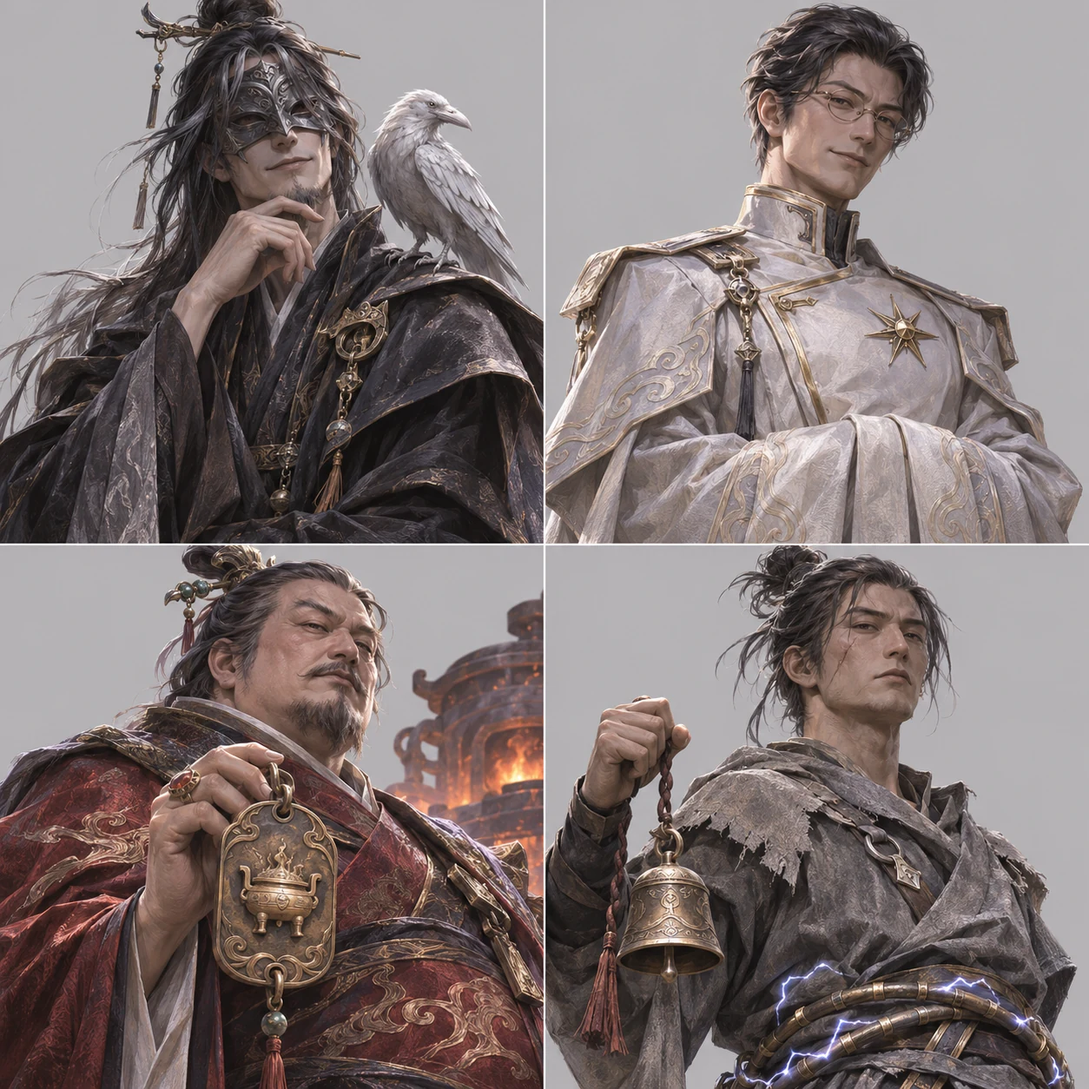
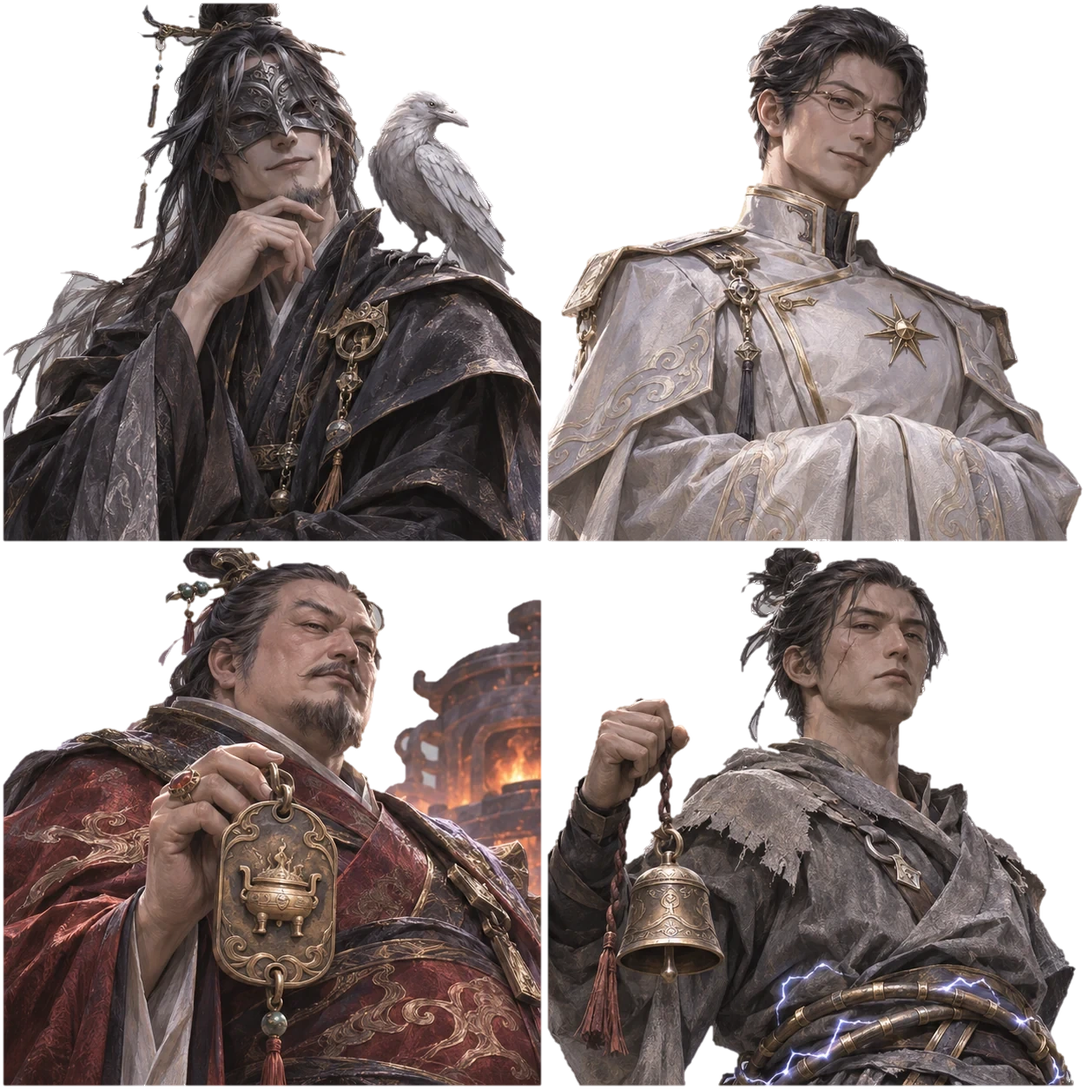
补充十一位配角的临时头像，更新四张立绘图集
- 新增 por_chy 等 12 张临时头像（从人物总览图裁出，待正式立绘覆盖）
- FOURTH_PORTRAITS 登记 11 位角色；谢照临改用 por_xie
- 新增人物图像检查报告与缺图角色出图提示词文档

diff --git a/index.html b/index.html
@@ -7296,7 +7296,7 @@ function thirdPortrait(key){return `<img class="porimg" src="art/por_${key}.webp
 Object.entries(THIRD_PORTRAITS).forEach(([key,file])=>{PORTRAIT[key]=()=>thirdPortrait(file);});
 const _thirdMo=PORTRAIT.mo,_thirdXie=PORTRAIT.xie;
 PORTRAIT.mo=()=>S.seen.includes('v11_10')?thirdPortrait('mo_lamp'):_thirdMo();
-PORTRAIT.xie=()=>S.seen.includes('v11_10')?thirdPortrait('xie_lamp'):(_thirdXie?_thirdXie():sealPortrait('xie'));
+PORTRAIT.xie=()=>S.seen.includes('v11_10')?thirdPortrait('xie_lamp'):(_thirdXie?_thirdXie():thirdPortrait('xie'));
 const THIRD_ENEMIES={'晏枢':'yans','乌衡':'wuh2','冻息叶':'dongxi','主槽守卫':'zhucao','持杖的守卫':'zhucao'};
 const _thirdBtPortrait=btPortrait;btPortrait=function(a){
  const key=a.side==='e'&&THIRD_ENEMIES[a.n||a.name];if(!key)return _thirdBtPortrait.apply(this,arguments);
@@ -7309,7 +7309,9 @@ Object.assign(CG,{jiedan:'此身',chudeng:'灯下人',xuanhe:'潮从何来',lala
 const FOURTH_SCENE_KEYS=new Set('chiliang zhexing huiting qingshi_po yanhu tianxi taiyi lufu tieliang fudeng gongfang yancang'.split(' '));
 const _fourthSceneCanvas=sceneCanvas;sceneCanvas=function(key,w,h){if(FOURTH_SCENE_KEYS.has(key))requestThirdArt('scene_'+key,'jpg');return _fourthSceneCanvas(key,w,h);};
 const _fourthBtBg=btBg;btBg=function(key,w,h){if(FOURTH_SCENE_KEYS.has(key))requestThirdArt('scene_'+key,'jpg');return _fourthBtBg(key,w,h);};
-const FOURTH_PORTRAITS={heq:'heq',hey:'heq',hengd:'hengd',mengq:'mengq',lhd:'lhd',wenq:'wenq',sangf:'sangf',aying:'aying',xman:'xman',chengw:'chengw',yutan:'yut',liangl:'liangl',qiw:'qiw',luoy:'luoy',duh:'duh'};
+const FOURTH_PORTRAITS={heq:'heq',hey:'heq',hengd:'hengd',mengq:'mengq',lhd:'lhd',wenq:'wenq',sangf:'sangf',aying:'aying',xman:'xman',chengw:'chengw',yutan:'yut',liangl:'liangl',qiw:'qiw',luoy:'luoy',duh:'duh',
+ /* 临时头像：从人物总览图裁出（chy…zhouyi），分辨率低、背景带景物；谢照临的 por_xie 同属此类。出了正式立绘后直接覆盖同名文件即可 */
+ chy:'chy',yeh:'yeh',shaop:'shaop',jiangq:'jiangq',kid:'kid',menl:'menl',tianq:'tianq',jiy:'jiy',luc:'luc',luod:'luod',zhouyi:'zhouyi'};
 Object.entries(FOURTH_PORTRAITS).forEach(([key,file])=>{PORTRAIT[key]=()=>thirdPortrait(file);});
 const FOURTH_ENEMIES=({'负碑鼋':'fubei','衡渡':'hengd','镜中错影':'hengd','孟确':'mengq','寄焰藤':'jiyan','寄焰藤根':'jiyan','护炉架':'hulu','晶翼':'jingyi','盲鳗':'mangman',
  '盐壳螯群':'yanqiao','岩鬃獾':'yanzong','晶背蛾':'jingbeie','晶背蛾群':'jingbeie','晶背兽':'jingbeis','蒙面人':'mengmian','翻船帮的蒙面人':'mengmian','持弩的蒙面人':'mengmian','雾鲨':'wusha1','寒壳蟹':'hanke'});

diff --git a/src/chart.js b/src/chart.js
@@ -66,7 +66,7 @@ function thirdPortrait(key){return `<img class="porimg" src="art/por_${key}.webp
 Object.entries(THIRD_PORTRAITS).forEach(([key,file])=>{PORTRAIT[key]=()=>thirdPortrait(file);});
 const _thirdMo=PORTRAIT.mo,_thirdXie=PORTRAIT.xie;
 PORTRAIT.mo=()=>S.seen.includes('v11_10')?thirdPortrait('mo_lamp'):_thirdMo();
-PORTRAIT.xie=()=>S.seen.includes('v11_10')?thirdPortrait('xie_lamp'):(_thirdXie?_thirdXie():sealPortrait('xie'));
+PORTRAIT.xie=()=>S.seen.includes('v11_10')?thirdPortrait('xie_lamp'):(_thirdXie?_thirdXie():thirdPortrait('xie'));
 const THIRD_ENEMIES={'晏枢':'yans','乌衡':'wuh2','冻息叶':'dongxi','主槽守卫':'zhucao','持杖的守卫':'zhucao'};
 const _thirdBtPortrait=btPortrait;btPortrait=function(a){
  const key=a.side==='e'&&THIRD_ENEMIES[a.n||a.name];if(!key)return _thirdBtPortrait.apply(this,arguments);
@@ -79,7 +79,9 @@ Object.assign(CG,{jiedan:'此身',chudeng:'灯下人',xuanhe:'潮从何来',lala
 const FOURTH_SCENE_KEYS=new Set('chiliang zhexing huiting qingshi_po yanhu tianxi taiyi lufu tieliang fudeng gongfang yancang'.split(' '));
 const _fourthSceneCanvas=sceneCanvas;sceneCanvas=function(key,w,h){if(FOURTH_SCENE_KEYS.has(key))requestThirdArt('scene_'+key,'jpg');return _fourthSceneCanvas(key,w,h);};
 const _fourthBtBg=btBg;btBg=function(key,w,h){if(FOURTH_SCENE_KEYS.has(key))requestThirdArt('scene_'+key,'jpg');return _fourthBtBg(key,w,h);};
-const FOURTH_PORTRAITS={heq:'heq',hey:'heq',hengd:'hengd',mengq:'mengq',lhd:'lhd',wenq:'wenq',sangf:'sangf',aying:'aying',xman:'xman',chengw:'chengw',yutan:'yut',liangl:'liangl',qiw:'qiw',luoy:'luoy',duh:'duh'};
+const FOURTH_PORTRAITS={heq:'heq',hey:'heq',hengd:'hengd',mengq:'mengq',lhd:'lhd',wenq:'wenq',sangf:'sangf',aying:'aying',xman:'xman',chengw:'chengw',yutan:'yut',liangl:'liangl',qiw:'qiw',luoy:'luoy',duh:'duh',
+ /* 临时头像：从人物总览图裁出（chy…zhouyi），分辨率低、背景带景物；谢照临的 por_xie 同属此类。出了正式立绘后直接覆盖同名文件即可 */
+ chy:'chy',yeh:'yeh',shaop:'shaop',jiangq:'jiangq',kid:'kid',menl:'menl',tianq:'tianq',jiy:'jiy',luc:'luc',luod:'luod',zhouyi:'zhouyi'};
 Object.entries(FOURTH_PORTRAITS).forEach(([key,file])=>{PORTRAIT[key]=()=>thirdPortrait(file);});
 const FOURTH_ENEMIES=({'负碑鼋':'fubei','衡渡':'hengd','镜中错影':'hengd','孟确':'mengq','寄焰藤':'jiyan','寄焰藤根':'jiyan','护炉架':'hulu','晶翼':'jingyi','盲鳗':'mangman',
  '盐壳螯群':'yanqiao','岩鬃獾':'yanzong','晶背蛾':'jingbeie','晶背蛾群':'jingbeie','晶背兽':'jingbeis','蒙面人':'mengmian','翻船帮的蒙面人':'mengmian','持弩的蒙面人':'mengmian','雾鲨':'wusha1','寒壳蟹':'hanke'});

diff --git a/缺图角色清单与出图提示词.md b/缺图角色清单与出图提示词.md
@@ -1,0 +1,78 @@
+# 灵潮修仙录 · 缺图角色清单与出图提示词
+
+这份清单列的是游戏里**没有立绘、现在显示印章头像**的角色（来自 `人物图像检查报告.md`）。
+按这里的提示词用你的绘图工具出图，发给我，写上文件名，我来抠图、压缩、接进游戏。
+
+> 我这边不能直接画图。提示词是我根据剧情里的身份、年龄、动作和场景推的，**源码里很少直接写长相**，所以每个角色都标了“依据”和“需要你确认的地方”。你觉得不对的地方，直接改提示词就行。
+
+## 通用要求
+
+- **立绘**：竖版 4:5（例如 1024×1280），半身到大腿，人物居中，三分之二侧身。
+- **背景**：纯色。和第五、六批人物（`atlas_5_*`、`atlas_6_*`）一样用**浅灰色纯色背景**就可以，我有现成的抠图脚本能去底；你自己抠成透明 PNG 更好。
+- **画风对齐**：新图要和已有的第五、六批人物放在一起不违和。那批是写实厚涂、低饱和、旧衣服带补丁、末日加仙侠的质感。出图前可以把 `art/atlas_6_characters_grid.webp` 当参考图喂给绘图工具。
+- 每条提示词后面加上这一句：
+
+> 通用风格：国风仙侠游戏人物立绘，写实厚涂，电影级光影，细腻笔触，低饱和，旧衣服带补丁与磨损，半身，三分之二侧身，五官自然，浅灰色纯色背景，无文字，无水印，无边框
+
+- 文件名：`por_代号.png`，例如 `por_xie.png`。
+
+## 一、主要人物（12 位，优先画）
+
+| 优先 | 文件名 | 人物 | 出场 | 依据 | 提示词 |
+|---|---|---|---|---|---|
+| ★★★ | por_xie | 谢照临 | 第六、十一、十二卷（台词 25 句，人物志里有） | 墨老的师兄，三百年前太一观弟子。第六卷回忆里他“年轻，衣领撕开一边，肩上驮着一个人，右腿拖在地上”。现有的 `por_xie_lamp.webp` 是一盏魂灯，没有人脸。 | 三百年前道门丹房的青年修士，三十岁上下，清瘦，轮廓冷峻，眼神克制而疲惫，像很久没睡过。灰青色旧道袍，衣领撕开一边，沾着炉灰与暗红的血迹，肩头有勒痕，腰间系一条细绳，挂着一个小小的空灯座。微微低头，一只手按在肩上 |
+| ★★★ | por_chy | 程砚 | 第七卷（18 句） | 北线调防来的人，说话干脆，带图、带车。“用手帕抹手指上的炭”，爱整洁。**性别、官职源码没写明，我暂定为男性军士，请确认。** | 三十来岁的北线调防军官，短发，脸庞干净利落，肩背挺直。深灰色旧军服，袖口磨损且补过，手里捏着一块洗得发白的手帕，指甲缝里还留着炭黑，腰间别着一卷地图，神情冷静而有条理 |
+| ★★★ | por_yeh | 叶蘅 | 第七卷（18 句） | 赤梁安置点里管孩子的人，坐矮台发烧坏的彩釉陶片，教孩子“磨手”，补小鞋，说话严肃带一点幽默。**性别源码没写明，我暂定为女性，请确认。** | 三四十岁，面相温和而严肃，头发简单扎起，围着旧布围裙，袖子挽到肘，手里捏着一片烧坏的彩釉陶片，膝上放着一只补到一半的小布鞋，坐在矮凳上，眼神耐心，不容糊弄 |
+| ★★★ | por_shaop | 邵平 | 第七卷（14 句） | 青石站来换防的护卫，**右眉上一道浅疤**，爱把别人说的话原样顶回去。 | 二十七八岁的青年护卫，右眉上一道浅疤，表情木然带一点倔，袖子捋到小臂，手背有旧伤，穿青石站的旧防护服，肩上搭着一块洗过的棉布，嘴角压着，像随时要把你的话原样顶回来 |
+| ★★ | por_jiangq | 江芹 | 第五卷（8 句） | 种冬菜的菜农，“挑了最嫩的一束，照价收钱”，田埂上的人，是女性。 | 四十岁左右的菜农妇人，皮肤被风吹得粗糙，手指粗大，裹着褪色头巾，旧棉袄外罩一件沾泥的围裙，臂弯挎着一篮冬菜，神情朴实而精明，脚边是湿泥 |
+| ★★ | por_kid | 站里的孩子 | 第五卷、叙话（7 句） | 青石站的孩子们学削棋子，铁叔和一个八九岁的小姑娘下棋。 | 八九岁的孩子，脸颊有灰，眼睛很亮，头发乱糟糟扎成两个小揪，穿改小了的旧大人衣服，手里捏着一枚刚削好的木棋子，专注地看着前方 |
+| ★★ | por_menl | 收门钱的老修士 | 第二卷（6 句） | 南街坊市门口，“灰袍老修士把来人的手按在白石上，看光的颜色收钱”，公事公办。 | 六十多岁的灰袍老修士，面容枯瘦，眼皮耷拉，神情疲惫而不近人情。灰色旧道袍洗得发白，袖口露出一截皮套，面前是一块发着微光的白石和一本旧册子，手里捏着笔 |
+| ★★ | por_tianq | 田庆 | 第七卷（6 句） | 赤梁窑工，带着眼睛不好的老伴，护着一捆模具，守着窑棚。**性别源码没写，按“老伴”暂定为男性，请确认。** | 五十多岁的窑工，肩背厚实，手掌粗硬，脸上有烧窑留下的细小烫痕，穿沾着釉彩的旧工装，身边放着一只大木箱，一只手护着怀里的陶模，神情倔强又舍不得 |
+| ★★ | por_jiy | 季遥 | 第七卷（5 句） | “领路的少年季遥背着一卷比自己还长的绳”，在白榆台学识图，舅父骂他字写得怪。 | 十五六岁的少年，瘦，皮肤晒得发黑，眼睛机灵，鼻尖有点红，穿大一号的旧工装，背着一卷比自己还长的粗麻绳，走路小心翼翼，像怕地面忽然变薄 |
+| ★★ | por_luc | 陆岑 | 第五卷（5 句） | “以前替天穹会押粮，如今管北坡几个水点”，带管匠核水量，把记录摊出来给人看，是男性。 | 四十出头的男子，国字脸，眼下有常年的疲惫，穿褪色的旧押运制服，袖口卷起，沾着泥，手里拿着一本记水位的册子，神情谨慎而坦白，肩上搭着晒黑的皮绳 |
+| ★★ | por_luod | 罗定 | 第五卷（5 句） | “领工罗定四十多岁，虎口裂得很深，拿碗时用布垫着”，最后摘下头灯去叫最后一班人上来。 | 四十多岁的领工，宽肩，皮肤粗糙，虎口裂开很深，用一块布垫着捧着粥碗，额头系着一盏熄灭的矿灯，神情沉重，嘴唇紧抿，穿沾着石粉的深色工装 |
+| ★★ | por_zhouyi | 周姨 | 第四卷（5 句） | “画箭头的人”，一户七口住在旧泵站里，年长的女人，**脸上有一道旧伤**。 | 五十多岁的女人，脸上从颧骨到下颌有一道旧伤疤，头发花白了一半，粗布衣服补丁整齐，手里捏着一支炭笔和半张地图，神情不躲不辩，沉稳而倔强，背后是锈蚀的泵房管道 |
+
+## 二、路人和一次性角色（47 个代号）
+
+这些角色台词只有 1 到 4 句。**不建议一个个画**，可以先画 8 张“通用脸”，让多个角色共用。我接图时会把每个代号映射到对应的通用脸，省下大量工作量，也不影响阅读。
+需要更精细的，可以单独挑几个出图。
+
+### 通用脸（8 张）
+
+| 文件名 | 类型 | 提示词 | 共用的代号 |
+|---|---|---|---|
+| por_gen_oldm | 普通老年男性 | 六十多岁的老人，脸上皱纹深，手指粗糙，穿洗得发白的旧棉衣，神情平和，眼神里有一点警觉 | `oldm` 修船的老人、`bingz` 卖饼的老人、`laot` 修缆的老头、`laor` 迁来的老人、`laob` 老柏 |
+| por_gen_oldf | 普通老年女性 | 六十多岁的老妇人，白发盘成低髻，脸上皱纹温和，穿补过的旧棉袄，手里攥着一块旧布，目光朴实 | `laofu` 老妇人、`tulao` 掌图的老妇人、`songp` 宋婆婆、`tianp` 田婆 |
+| por_gen_worker | 普通男工人 | 三四十岁的男工人，肩宽，脸上有灰，穿沾着泥与石粉的旧工装，袖子卷起，神情疲惫而实在 | `gongr` 工人、`jiaof` 脚夫、`hanzi` 取水的汉子、`xiez` 拎着鞋的男人、`shoux` 瘦男人、`shangr` 收货人 |
+| por_gen_youth | 年轻男性 | 十八九岁的青年，瘦，眼神机灵，穿大一号的旧衣服，袖口补过，神情有些拘谨 | `luozi` 赶骡的年轻人、`huat` 画图的年轻人、`cyt` 灯铺的学徒、`jic` 季承、`hqdi`/`hedi` 何鹊的弟弟、`xpzs` 许平章的儿子 |
+| por_gen_woman | 普通中年女性 | 三四十岁的女人，头发简单挽起，围着旧围裙，手指粗糙，神情沉静耐心，带着生活磨出来的坚韧 | `hush` 胡婶、`nvren` 抱水杯的女人、`shoul` 守炉的女人、`qint` 灶边的姑娘、`nuren` 披雨布的人 |
+| por_gen_child | 孩童 | 七八岁的孩子，脸颊有灰，眼睛很亮，穿改小的旧衣服，手里攥着一小件东西 | `kidl` 数灯的孩子 |
+| por_gen_clerk | 管事与掌柜 | 四五十岁的男子，穿深色旧长衫，袖口干净，手里拿着账册或钥匙，神情谨慎，带着生意人的客气 | `zhash` 栈房管事、`guansh` 货栈管事、`zhangg` 客栈掌柜、`tongz` 铜作掌柜、`mofz` 磨坊主、`menf` 门房、`yanp` 验票人、`sanz` 三栈代表 |
+| por_gen_guard | 守卫与差役 | 三十来岁的守卫，穿旧制服或防护服，腰间别着木棍或短刀，神情警惕但不凶，站得很直 | `shoum` 守门人、`yinw` 尹护卫、`zhizh` 值潮者、`hang` 寒港使者 |
+
+### 建议单独画的（可选，7 个）
+
+| 文件名 | 人物 | 出场 | 提示词 |
+|---|---|---|---|
+| por_zhaos | 赵笙 | 第十章 | 三十来岁的账房，戴一副旧金属框眼镜，袖套磨得发亮，手指上有墨渍，神情仔细，怕出错 |
+| por_yanj | 严敬 | 第七卷 | 四十岁左右的男子，神情板正，穿整洁的旧制服，领口扣到最上一颗，说话前先看别人的脸色 |
+| por_baiyi | 白衣人 | 第三卷 | 天穹会的白衣执事，三十岁上下，白色制服一尘不染，胸口一枚七角星徽章，笑容客气而疏离 |
+| por_yaoshi2 | 天穹会药师 | 第十一卷 | 天穹会的药师，白色罩袍，肩上背着药箱，手套指尖发黄，神情平静专业 |
+| por_yaoshi | 药师 | 第九卷 | 乡间的药师，粗布衣裳，腰间挂着一串药葫芦，头发花白，手指被草汁染成淡黄色 |
+| por_peiz | 佩珠的修士 | 第十一卷 | 腰间挂着一串小珠子的修士，三四十岁，道袍朴素，珠子里有微光，神情沉静 |
+| por_dengz | 灯主 | 第九卷 | 提着一盏旧灯的人，披着深色斗篷，灯光映着半边脸，神情安静，看不出年龄 |
+
+## 三、你出图以后
+
+1. 把图发给我，写上文件名（或放进仓库 `art/` 目录）。
+2. 我来去底（如果不是透明的）、转成 webp、压缩。
+3. 我在 `chart.js` 的映射表里把代号接上图。共用的通用脸会让多个代号指向同一张。
+4. 我接入后会重新跑一遍图像检查，确认没有遗漏、没有白底。
+
+## 需要你确认的几件事
+
+- **程砚、叶蘅、田庆的性别**：源码里没写明，我按语气和上下文暂定，不对请告诉我。
+- **谢照临**：他是三百年前的人，脸应该是年轻时的样子，还是现在魂灯里“老去的样子”？我按回忆里的青年写的。
+- **何鹊的弟弟有两个代号**（`hqdi`、`hedi`），应该是同一个人，我让它们共用一张图。
+- 另有 5 个说话代号没登记名字（`chill`、`huanhun`、`jiuzhuan`、`shouyuan`、`zhuji`），看着不是人物，这份清单没有收。

diff --git a/缺图角色_单张出图提示词.md b/缺图角色_单张出图提示词.md
@@ -1,0 +1,109 @@
+# 缺图主要人物 · 单张出图提示词（第二版）
+
+这一版是针对你发来的 12 人总览图重写的。那张图有四个问题，这一版逐条对应：
+
+| 总览图的问题 | 这一版的做法 |
+|---|---|
+| 人物太小（每人约 250×300 像素），放进游戏会发糊 | **一次只出一个人**，尺寸至少 1024×1280，工具支持的话直接出最大尺寸 |
+| 背景是灯笼、船、树叶等风景，抠不干净 | 提示词**最前面**就写死“纯色浅灰背景，没有任何景物”，末尾再写一遍禁止项 |
+| 画风是偏动漫的水墨风，脸太帅气，和游戏里现有人物（写实厚涂、旧衣服带补丁）不搭 | 加参考图，并明确写“普通人的五官，不要偶像脸，不要动漫风” |
+| 邵平的疤、周姨的旧伤、罗定的裂手等关键特征没画出来；图上还印了名牌和说明文字 | 每个人单独列出“**必须有**”的特征；末尾禁止文字、名牌、卡片边框 |
+
+## 一、出图设置
+
+- **一次一个人**，不要做多人合集、不要做卡片或海报。
+- **比例 4:5**，尺寸至少 1024×1280（越大越好，工具支持 2K 就用 2K）。
+- **每个人出 4 张挑 1 张**，用下面的“出图后自检”过一遍。
+- **参考图**：把 `draft/风格参考/` 里的图当“风格参考 / 图生图参考”放进工具（即梦叫“参考图”，豆包叫“图片参考”）。参考强度调低一点，让它借画风，不要借脸。
+
+| 参考图 | 用在 |
+|---|---|
+| `ref_男_青年_闻策.png` | 谢照临、程砚、邵平 |
+| `ref_男_中年_大刘.png` | 罗定、陆岑、田庆 |
+| `ref_男_老年_老陆.png` | 收门钱的老修士 |
+| `ref_女_中年_李婶.png` | 叶蘅、江芹、周姨 |
+| `ref_男_少年_小阮.png` | 季遥、站里的孩子 |
+
+## 二、每条提示词都套这个格式
+
+**前缀（放在最前面，每条都加）：**
+
+> 写实厚涂风格的末日仙侠游戏人物立绘，只有一个人，半身到大腿，三分之二侧身。**背景是纯色浅灰色平涂（约 RGB 214,214,214），没有任何景物、灯笼、船、树叶、纹理、渐变或光斑。** 低饱和，自然柔光，旧衣服带补丁和磨损。五官是普通人的样子，带着劳作和岁月的痕迹，不是偶像脸，不要动漫风
+
+**后缀（放在最后，每条都加）：**
+
+> 禁止出现：文字、名牌、竖排标签、卡片边框、水印、多个人物、风景背景、灯笼、过度磨皮、漫画感
+
+## 三、12 位主要人物（把人物描述接在前缀和后缀之间）
+
+### 1. 谢照临 `por_xie.png` ★★★
+三百年前道门丹房的青年修士，三十岁上下，清瘦，轮廓冷峻，眼神克制而疲惫，像很久没睡过。灰青色旧道袍，**衣领撕开一边**，沾着炉灰与暗红的血迹，肩头有勒痕。腰间系一条细绳，挂着一个小小的空灯座。微微低头，一只手按在肩上。
+> **必须有**：撕开的衣领、疲惫的眼神、腰间的空灯座。
+> 你上一张图里这位是笑着的，原设定是克制疲惫，**表情要冷**。
+
+### 2. 程砚 `por_chy.png` ★★★
+三十来岁的北线调防军官，短发，脸庞干净利落，肩背挺直。深灰色旧军服，袖口磨损且补过。右手捏着一块洗得发白的手帕，**指甲缝里还留着炭黑**。腰间别着一卷地图。神情冷静而有条理。
+> **必须有**：手帕、指甲缝里的炭黑、地图卷。
+> 上一张图里他拿的是毛笔和竹简，**不对**，他是军官，不是书生。
+
+### 3. 叶蘅 `por_yeh.png` ★★★
+三四十岁，面相温和而严肃，头发简单扎起，**围着旧布围裙**，袖子挽到肘。手里捏着一片烧坏的彩釉陶片，膝上放着一只补到一半的小布鞋，坐在矮凳上。眼神耐心，不容糊弄。
+> **必须有**：烧坏的彩釉陶片、补到一半的小布鞋、围裙。
+> 上一张图里她头上戴着叶子发饰、像仙子，**去掉**，她是安置点里管孩子的人。
+
+### 4. 邵平 `por_shaop.png` ★★★
+二十七八岁的青年护卫，**右眉上一道浅疤**，表情木然带一点倔，袖子捋到小臂，手背有旧伤。穿青石站的旧防护服，肩上搭着一块洗过的棉布。嘴角压着，像随时要把你的话原样顶回来。
+> **必须有**：**右眉上清晰可见的浅疤**、肩上的棉布。
+> 上一张图里疤痕没画出来，请在提示词里把“右眉上一道浅疤”再重复一遍。
+
+### 5. 江芹 `por_jiangq.png` ★★
+四十岁左右的菜农妇人，皮肤被风吹得粗糙，手指粗大，裹着褪色头巾。旧棉袄外罩一件沾泥的围裙，臂弯挎着一篮冬菜。神情朴实而精明。
+> **必须有**：沾泥的围裙、菜篮、褪色头巾。
+
+### 6. 站里的孩子 `por_kid.png` ★★
+八九岁的孩子，脸颊有灰，眼睛很亮，头发乱糟糟扎成两个小揪。穿改小了的旧大人衣服。手里捏着一枚刚削好的木棋子，专注地看着前方。
+> **必须有**：木棋子、改小的旧衣服。
+
+### 7. 收门钱的老修士 `por_menl.png` ★★
+六十多岁的灰袍老修士，面容枯瘦，眼皮耷拉，神情疲惫而不近人情。灰色旧道袍洗得发白，袖口露出一截皮套。面前是一块发着微光的白石和一本旧册子，手里捏着笔。
+> **必须有**：发光的白石、册子和笔。
+> 上一张图里他是仙风道骨的白胡子老道，**偏仙了**。他是坊市门口收钱的小吏，要更落魄、更世俗。
+
+### 8. 田庆 `por_tianq.png` ★★
+五十多岁的窑工，肩背厚实，手掌粗硬，脸上有烧窑留下的细小烫痕。穿沾着釉彩的旧工装，身边放着一只大木箱，一只手护着怀里的陶模。神情倔强又舍不得。
+> **必须有**：陶模、沾着釉彩的工装、脸上的细小烫痕。
+
+### 9. 季遥 `por_jiy.png` ★★
+十五六岁的少年，瘦，皮肤晒得发黑，眼睛机灵，鼻尖有点红。穿大一号的旧工装，**背着一卷比自己还长的粗麻绳**。走路小心翼翼，像怕地面忽然变薄。
+> **必须有**：背上那卷粗麻绳、少年的瘦削体型。
+> 上一张图里他看起来像成年人，**要明显是个少年**。
+
+### 10. 陆岑 `por_luc.png` ★★
+四十出头的男子，国字脸，眼下有常年的疲惫。穿褪色的旧押运制服，袖口卷起，沾着泥。手里拿着一本记水位的册子。肩上搭着晒黑的皮绳。神情谨慎而坦白。
+> **必须有**：水位册子、旧押运制服。
+
+### 11. 罗定 `por_luod.png` ★★
+四十多岁的领工，宽肩，皮肤粗糙，**虎口裂开很深**，用一块布垫着捧着一只粥碗。额头系着一盏熄灭的矿灯。神情沉重，嘴唇紧抿。穿沾着石粉的深色工装。
+> **必须有**：**裂开的虎口**、垫着布捧碗的手、额头的矿灯。
+> 上一张图里他裹着头巾，没有矿灯，也看不到手，请在提示词里强调“双手入镜”。
+
+### 12. 周姨 `por_zhouyi.png` ★★
+五十多岁的女人，**脸上从颧骨到下颌一道旧伤疤**，头发花白了一半。粗布衣服补丁整齐，手里捏着一支炭笔和半张地图。神情不躲不辩，沉稳而倔强，背后是锈蚀的泵房管道。
+> **必须有**：**脸上的旧疤**、炭笔和半张地图。
+> 上一张图里她笑得很和善，脸上没有伤疤。原设定是沉稳倔强，**不是慈祥**。
+> 注意：这条要求背景是纯灰，所以“背后的泵房管道”请改成只在衣服上体现锈迹，或者干脆去掉。
+
+## 四、出图后自检（每张图过一遍）
+
+- [ ] 画面里只有一个人
+- [ ] 背景是纯灰色，没有景物
+- [ ] 没有文字、名牌、边框
+- [ ] “必须有”的特征都画出来了
+- [ ] 年龄、性别、身份符合描述
+- [ ] 分辨率不低于 1024×1280
+- [ ] 脸不是偶像脸，衣服有磨损
+
+## 五、交给我
+
+文件名用 `por_代号.png`。发给我，或者放进仓库 `art/` 目录。
+我来做的事：去底（灰底我有现成的脚本）、转成 webp、在 `chart.js` 里接上映射、再跑一遍图像检查。

diff --git a/人物图像检查报告.md b/人物图像检查报告.md
@@ -1,0 +1,133 @@
+# 人物图像检查报告
+
+检查对象：`src/` 里的人物图像映射和 `art/` 里的图片。只读检查，没有改任何文件。
+
+## 一、结论摘要
+
+- **没有图像、显示印章头像的人物：主要人物 12 位，路人和一次性角色 47 位**（见第二节）。
+- **图像是白底的人物：16 位**（见第三节）。
+- 图像是不透明底、但颜色较深的：0 位（第四节，供参考）。
+- 立绘文件缺失（映射有、文件没有）：0 个。
+
+## 二、没有图像的人物
+
+这些人物在游戏里没有对应的立绘，会显示由名字生成的「印章头像」（取名字末两个字、随机底色）。
+
+### 2.1 主要人物（台词 5 句以上，或在人物志里）
+
+| 代号 | 名字 | 出现 | 出场卷 | 备注 |
+|---|---|---|---|---|
+| `xie` | 谢照临 | 台词25句、人物志、缘分 | 第6卷、第11卷、第12卷 | 在读到第十一卷之前没有图（之后换成灯火版） |
+| `chy` | 程砚 | 台词18句 | 第7卷 |  |
+| `yeh` | 叶蘅 | 台词18句 | 第7卷 |  |
+| `shaop` | 邵平 | 台词14句 | 第7卷 |  |
+| `jiangq` | 江芹 | 台词8句 | 第5卷 |  |
+| `kid` | 站里的孩子 | 台词7句 | 第5卷、xuhua |  |
+| `menl` | 收门钱的老修士 | 台词6句 | 第2卷 |  |
+| `tianq` | 田庆 | 台词6句 | 第7卷 |  |
+| `jiy` | 季遥 | 台词5句 | 第7卷 |  |
+| `luc` | 陆岑 | 台词5句 | 第5卷 |  |
+| `luod` | 罗定 | 台词5句 | 第5卷 |  |
+| `zhouyi` | 周姨 | 台词5句 | 第4卷 |  |
+
+### 2.2 路人和一次性角色（台词 1 到 4 句）
+
+| 代号 | 名字 | 出现 | 出场卷 | 备注 |
+|---|---|---|---|---|
+| `laob` | 老柏 | 台词4句 | 第8卷 |  |
+| `peiz` | 佩珠的修士 | 台词4句 | 第11卷 |  |
+| `xiez` | 拎着鞋的男人 | 台词4句 | 第12卷 |  |
+| `baiyi` | 白衣人 | 台词3句 | 第3卷 |  |
+| `hqdi` | 何鹊的弟弟 | 台词3句 | xuhua |  |
+| `hush` | 胡婶 | 台词3句 | 第8卷 |  |
+| `oldm` | 修船的老人 | 台词3句 | 第4卷 |  |
+| `tianp` | 田婆 | 台词3句 | 第9卷 |  |
+| `tongz` | 铜作掌柜 | 台词3句 | 第10卷 |  |
+| `tulao` | 掌图的老妇人 | 台词3句 | 第10卷 |  |
+| `xpzs` | 许平章的儿子 | 台词3句 | xuhua |  |
+| `yaoshi2` | 天穹会药师 | 台词3句 | 第11卷 |  |
+| `zhaos` | 赵笙 | 台词3句 | 第10卷 |  |
+| `hang` | 寒港使者 | 台词2句 | 第13卷 |  |
+| `hanzi` | 取水的汉子 | 台词2句 | 第7卷 |  |
+| `jic` | 季承 | 台词2句 | 第7卷 |  |
+| `kidl` | 数灯的孩子 | 台词2句 | 第9卷 |  |
+| `laofu` | 老妇人 | 台词2句 | 第8卷 |  |
+| `nuren` | 披雨布的人 | 台词2句 | 第4卷 |  |
+| `nvren` | 抱水杯的女人 | 台词2句 | 第8卷 |  |
+| `qint` | 灶边的姑娘 | 台词2句 | xuhua |  |
+| `shoul` | 守炉的女人 | 台词2句 | 第7卷 |  |
+| `shoum` | 守门人 | 台词2句 | 第6卷、第12卷 |  |
+| `shoux` | 瘦男人 | 台词2句 | 第8卷 |  |
+| `zhash` | 栈房管事 | 台词2句 | 第10卷 |  |
+| `bingz` | 卖饼的老人 | 台词1句 | 第10卷 |  |
+| `cyt` | 灯铺的学徒 | 台词1句 | xuhua |  |
+| `dengz` | 灯主 | 台词1句 | 第9卷 |  |
+| `gongr` | 工人 | 台词1句 | 第4卷 |  |
+| `guansh` | 货栈管事 | 台词1句 | 第6卷 |  |
+| `hedi` | 何鹊的弟弟 | 台词1句 | 第9卷 |  |
+| `huat` | 画图的年轻人 | 台词1句 | 第12卷 |  |
+| `jiaof` | 脚夫 | 台词1句 | 第12卷 |  |
+| `laor` | 迁来的老人 | 台词1句 | 第12卷 |  |
+| `laot` | 修缆的老头 | 台词1句 | 第7卷 |  |
+| `luozi` | 赶骡的年轻人 | 台词1句 | 第6卷 |  |
+| `menf` | 门房 | 台词1句 | 第10卷 |  |
+| `mofz` | 磨坊主 | 台词1句 | 第13卷 |  |
+| `sanz` | 三栈代表 | 台词1句 | 第12卷 |  |
+| `shangr` | 收货人 | 台词1句 | 第7卷 |  |
+| `songp` | 宋婆婆 | 台词1句 | 第8卷 |  |
+| `yanj` | 严敬 | 台词1句 | 第7卷 |  |
+| `yanp` | 验票人 | 台词1句 | 第12卷 |  |
+| `yaoshi` | 药师 | 台词1句 | 第9卷 |  |
+| `yinw` | 尹护卫 | 台词1句 | 第10卷 |  |
+| `zhangg` | 客栈掌柜 | 台词1句 | 第9卷 |  |
+| `zhizh` | 值潮者 | 台词1句 | 第13卷 |  |
+
+另有 5 个说话代号没有登记名字（`chill`、`huanhun`、`jiuzhuan`、`shouyuan`、`zhuji`），很可能不是人物，需要你确认。
+
+「缘分」页里还有 100 个条目没有图，但它们没有任何台词，名字看上去是物品、功法、势力（如云雾茶、《天衍术》、混元钟），不是人物，这里没有列出。
+
+## 三、图像是白底（浅灰底）的人物
+
+判断方法：取图像上方两个角的底色。角上不透明、且亮度不低于 170（满分 255），就判为白/浅灰底。这类图的背景是一块实心的浅色，不是透明的，放到游戏的深色界面上就会显出一块白板。
+
+| 代号 | 名字 | 图像文件 | 角部底色 | 亮度 | 出现 |
+|---|---|---|---|---|---|
+| `chuyi` | 初一 | atlas_6_characters_grid.webp 第1格 | RGB(214,214,214) | 214 | 台词65句、人物志 |
+| `shenm` | 沈湄 | atlas_6_characters_grid.webp 第3格 | RGB(214,214,214) | 214 | 台词17句 |
+| `wence` | 闻策 | atlas_6_characters_grid.webp 第2格 | RGB(214,214,214) | 214 | 台词11句 |
+| `lu` | 老陆 | atlas_6_characters_grid.webp 第4格 | RGB(213,213,213) | 213 | 台词5句 |
+| `ma` | 马奶奶 | atlas_5_portraits_03_station.webp 第2格 | RGB(200,200,202) | 200 | 台词3句 |
+| `liu` | 大刘 | atlas_5_portraits_03_station.webp 第3格 | RGB(199,199,201) | 199 | 台词2句 |
+| `qin` | 秦婶 | atlas_5_portraits_03_station.webp 第1格 | RGB(199,199,201) | 199 | 台词19句、人物志 |
+| `ruan` | 小阮 | atlas_5_portraits_03_station.webp 第4格 | RGB(199,199,201) | 199 | 台词3句 |
+| `gc` | 顾春 | atlas_5_portraits_02_market.webp 第2格 | RGB(196,193,197) | 194 | 台词6句 |
+| `li` | 李婶 | atlas_5_portraits_02_market.webp 第1格 | RGB(196,193,197) | 194 | 台词15句 |
+| `yao` | 姚女吏 | atlas_5_portraits_02_market.webp 第3格 | RGB(196,194,197) | 194 | 台词11句 |
+| `xulu` | 徐芦 | atlas_5_portraits_02_market.webp 第4格 | RGB(195,193,196) | 193 | 台词4句 |
+| `dong` | 董文庭 | atlas_5_portraits_01_antagonists.webp 第2格 | RGB(180,177,180) | 178 | 台词7句、人物志 |
+| `hcg` | 贺长庚 | atlas_5_portraits_01_antagonists.webp 第3格 | RGB(180,177,180) | 178 | 台词5句 |
+| `hui` | 灰衣修士 | atlas_5_portraits_01_antagonists.webp 第4格 | RGB(180,177,180) | 178 | 台词2句 |
+| `wuh` | 乌衡 | atlas_5_portraits_01_antagonists.webp 第1格 | RGB(180,177,180) | 178 | 台词27句、人物志 |
+
+## 四、不透明底、但颜色较深的图像（供参考）
+
+（没有）
+
+## 五、其他发现
+
+**借用别人的图像（两个代号共用一张图）：**
+
+- `yutan` 余檀 使用 `por_yut.webp`
+
+**art/ 里有、但游戏映射里没有用上的立绘：**
+
+`por_hero_f.webp`、`por_hero_m.webp`、`por_liu.webp`
+
+- `por_liu.webp` 是一位红衣女子，对应旧江湖线的「柳含烟」（`renwu.js`，该线已撤出正史）。她的代号也是 `liu`，和第一卷的「大刘」撞了。`chart.js` 把 `liu` 指向了大刘的图集格，所以这张透明底的立绘被盖住了。
+- `por_hero_f.webp`、`por_hero_m.webp` 是主角的男女形象，不属于说话人清单，所以在这里显示为“未使用”，不一定是真的没用。
+
+## 六、方法与局限
+
+- 人物清单来自剧情源码里所有的说话人，加上「人物志」「缘分」里登记的人物；图像来源按 `art.js`、`art2.js`、`art3.js`、`art4.js`、`chart.js` 里的映射表推断游戏运行时的最终结果。**没有真正运行游戏**，所以如果有运行时才产生的覆盖，我可能漏掉。
+- 白底判断只看图像上方两个角，不看人物本身；亮度阈值 170 是我看过图后定的，不是标准。如果某张图的角被人物或装饰盖住，可能漏判。
+- 图集（`atlas_*.webp`）是 2×2 的四格图，每一格单独检查边缘。
